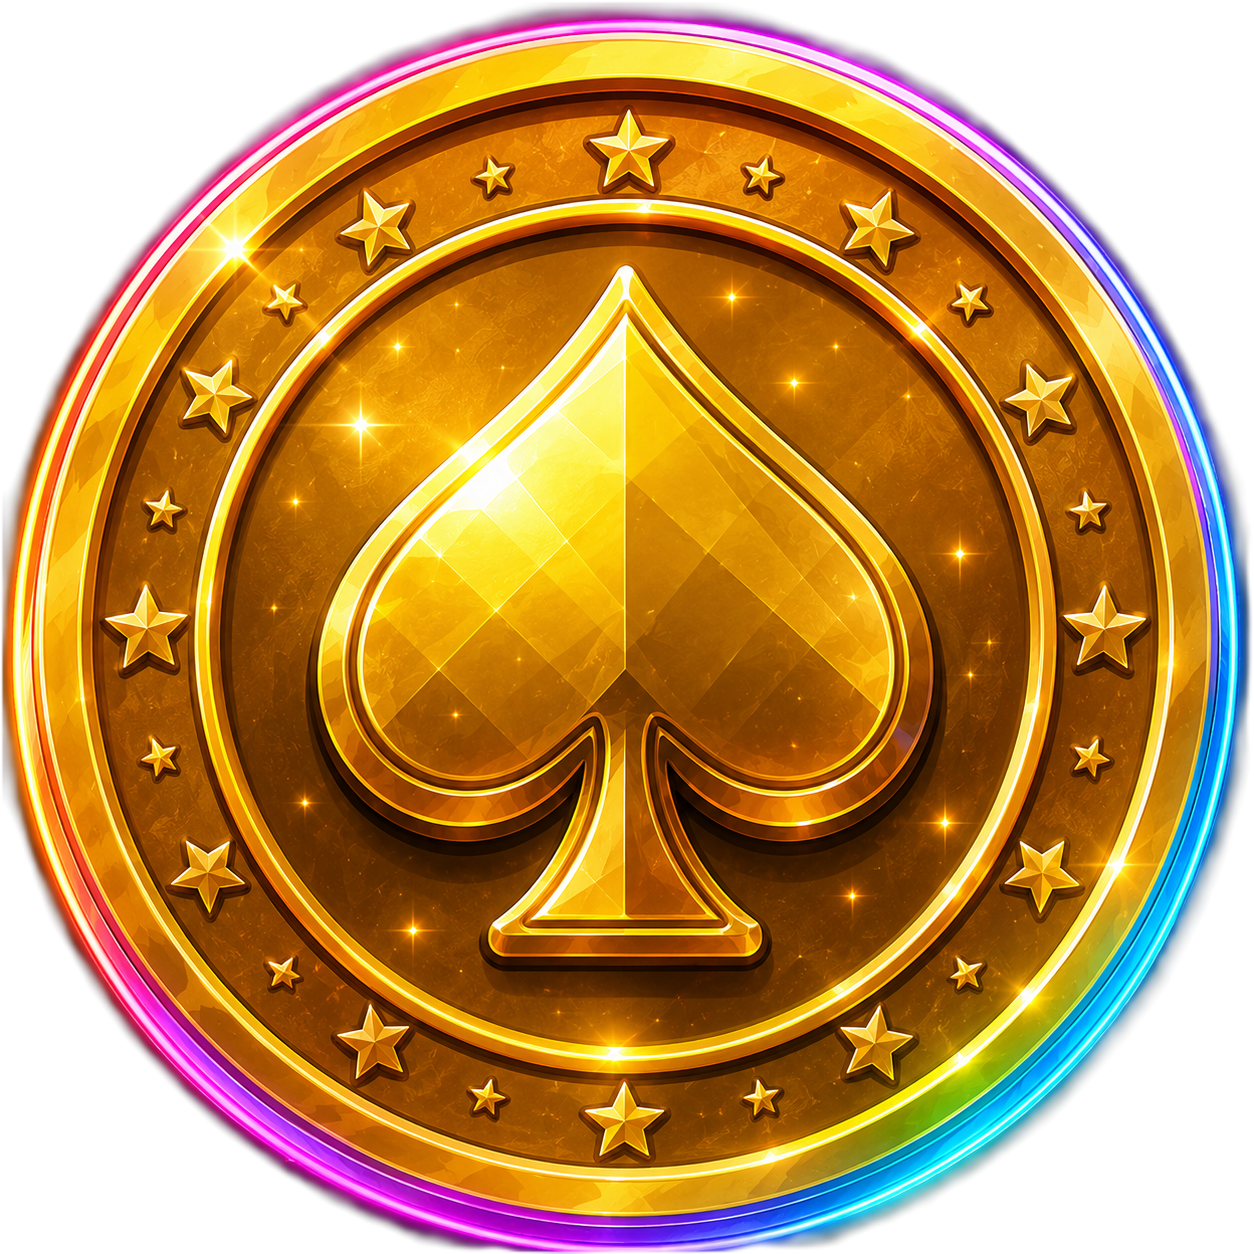
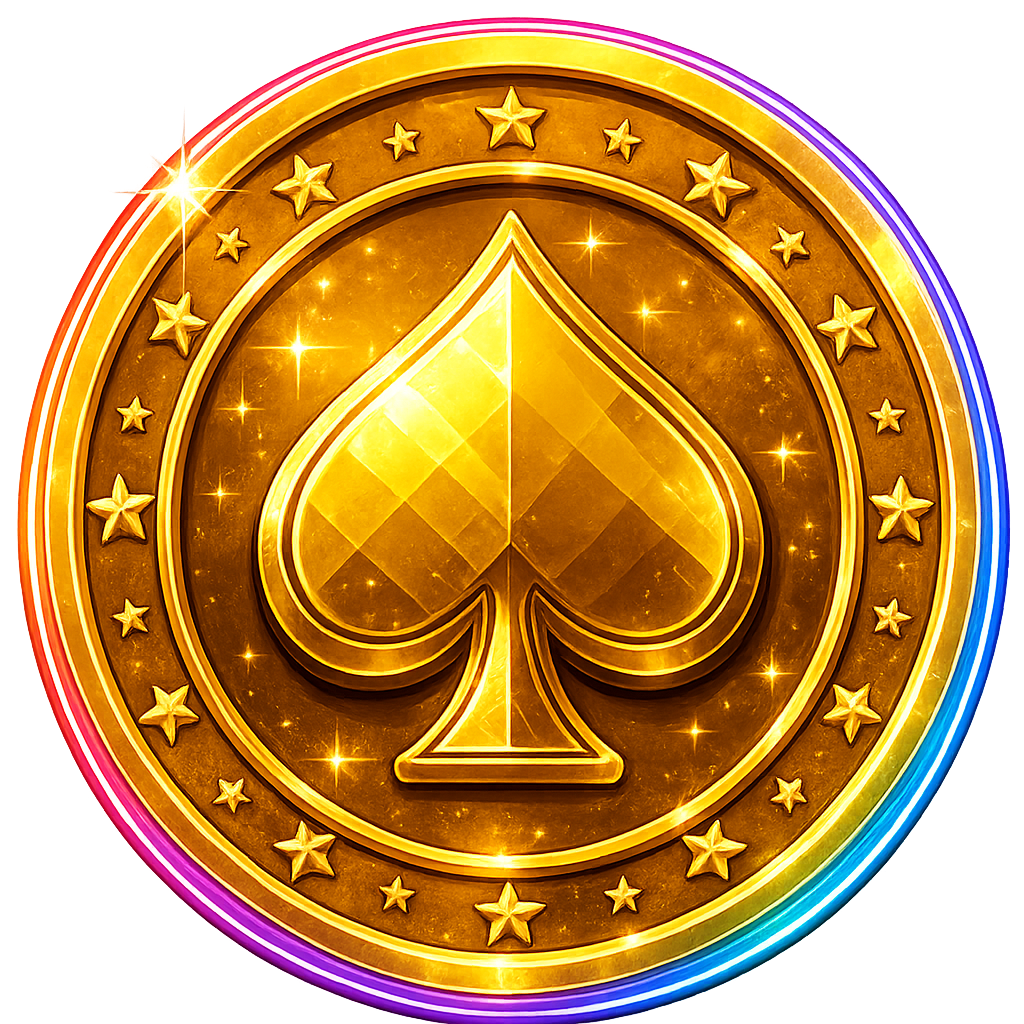
css update for telegram colors

diff --git a/src/app/app.scss b/src/app/app.scss
@@ -4,10 +4,10 @@
 
   background-color: var(--tg-theme-secondary-bg-color);
 
-  padding-top: var(--tg-safe-area-inset-top);
-  padding-left: var(--tg-safe-area-inset-left);
-  padding-right: var(--tg-safe-area-inset-right);
-  padding-bottom: var(--tg-safe-area-inset-bottom);
+  padding-top: var(--tg-content-safe-area-inset-top);
+  padding-left: var(--tg-content-safe-area-inset-left);
+  padding-right: var(--tg-content-safe-area-inset-right);
+  padding-bottom: var(--tg-content-safe-area-inset-bottom);
 
   border-radius: 12px;
   margin-top: 20px;

diff --git a/src/app/footer/footer.scss b/src/app/footer/footer.scss
@@ -8,7 +8,7 @@
     height: 52px;
     width: 80%;
     border-radius: 20px;
-    background: var(--tg-theme-secondary-bg-color, #C4C4C4);
+    background: var(--tg-theme-section-bg-color);
 
     display: flex;
     justify-content: space-around;
@@ -18,11 +18,12 @@
       height: 100%;
       display: flex;
       flex-direction: column;
-      justify-content: center;
-      gap: 2px;
+      justify-content: space-around;
+      // gap: 4px;
       align-items: center;
 
       p {
+        color: var(--tg-theme-button-text-color);
         font-size: 1.1cap;
       }
     }

diff --git a/src/app/click-zone/click-zone.html b/src/app/click-zone/click-zone.html
@@ -1,9 +1,5 @@
-<div class="container">
+<div class="container" appClickEffect #tooseButton appClickReactionAnimation (pointerdown)="onCoinClick($event)">
   <button
-    #tooseButton
-    (pointerdown)="onCoinClick($event)"
-    appClickReactionAnimation
-    appClickEffect
     class="coin-btn"
   >
     <img alt="coin" src="/coins/main-coin.png">

diff --git a/src/app/header/header.scss b/src/app/header/header.scss
@@ -2,7 +2,7 @@
   width: 100%;
   display: flex;
   justify-content: center;
-  color: black;
+  color: var(--tg-theme-text-color);
 
   .user-data {
     display: flex;
@@ -15,7 +15,7 @@
       height: 40px;
       border-radius: 9999px;
       overflow: hidden;
-      background: var(--tg-theme-secondary-bg-color, #C4C4C4);
+      background: var(--tg-theme-header-bg-color);
 
       img {
         width: 100%;
@@ -31,7 +31,7 @@
       height: 40px;
       border-radius: 9999px;
       overflow: hidden;
-      background: var(--tg-theme-secondary-bg-color, #C4C4C4);
+      background: var(--tg-theme-header-bg-color);
       transition: all 0.4s ease;
 
       p {

diff --git a/src/app/click-zone/click-zone.scss b/src/app/click-zone/click-zone.scss
@@ -9,6 +9,11 @@
 
   perspective: 1000px;
 
+  user-select: none;
+  -webkit-user-drag: none;
+  -moz-user-select: none;
+
+
   .coin-btn {
     background: none;
     border: none;

diff --git a/src/index.html b/src/index.html
@@ -4,7 +4,7 @@
   <meta charset="utf-8">
   <title>KrutoiToose</title>
   <base href="/">
-  <meta name="viewport" content="width=device-width, initial-scale=1">
+  <meta name="viewport" content="width=device-width, initial-scale=1.0, maximum-scale=1.0, user-scalable=no">
   <link rel="icon" type="image/x-icon" href="favicon.ico">
 
   <script src="https://telegram.org/js/telegram-web-app.js"></script>

diff --git a/src/styles.scss b/src/styles.scss
@@ -6,6 +6,8 @@
 
 html, body {
   overscroll-behavior-y: none;
+  overscroll-behavior-x: none;
+  touch-action: pan-x pan-y;
 }
 
 body {